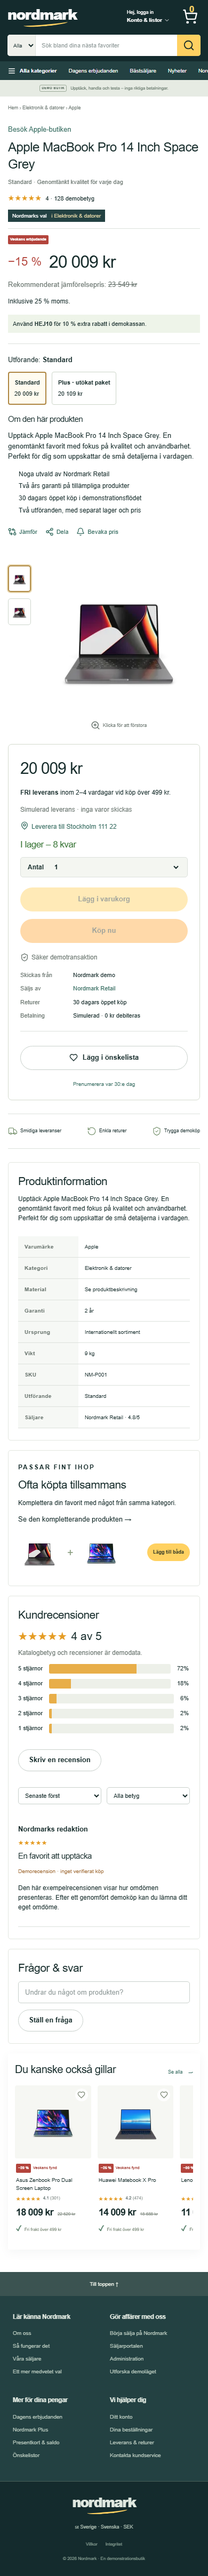
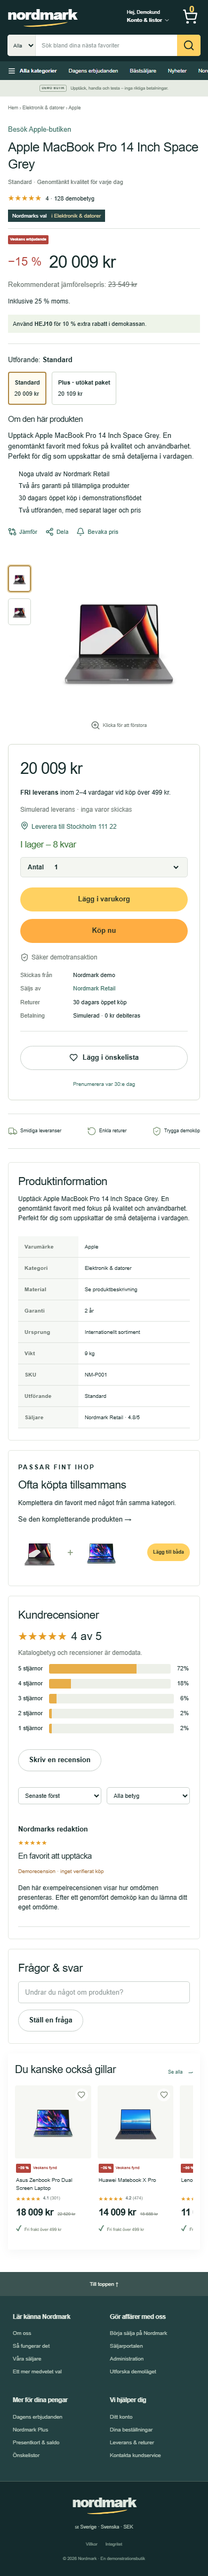
Verify live deployment and stabilize browser readiness checks

Changed region(s): [[0.0923, 0.3416, 0.8923, 0.3727]]

diff --git a/tests/e2e/commerce.spec.ts b/tests/e2e/commerce.spec.ts
@@ -232,9 +232,7 @@ for (const width of [390, 768, 1280, 1440])
     page.on('pageerror', (e) => errors.push(e.message));
     await page.goto('/');
     await expect(page.locator('.category-overlap')).toBeVisible();
-    await page
-      .waitForResponse((r) => r.url().endsWith('/api/shop') && r.status() === 200)
-      .catch(() => {});
+    await expect(page.locator('.account-link')).toContainText('Demokund');
     expect(
       await page.evaluate(() => document.documentElement.scrollWidth <= window.innerWidth),
     ).toBeTruthy();
@@ -242,6 +240,7 @@ for (const width of [390, 768, 1280, 1440])
     await page.screenshot({ path: `docs/screenshots/home-${width}.png`, fullPage: true });
     await page.goto('/produkt/p001');
     await expect(page.locator('.buy-box')).toBeVisible();
+    await expect(page.getByRole('button', { name: 'Lägg i varukorg', exact: true })).toBeEnabled();
     expect(
       await page.evaluate(() => document.documentElement.scrollWidth <= window.innerWidth),
     ).toBeTruthy();

diff --git a/docs/WORK-STATE.md b/docs/WORK-STATE.md
@@ -9,4 +9,6 @@ Amazon homepage blocked by JS challenge; search/cart HTTP503. Exact visual fidel
 
 Implemented complete demo customer purchase/return flow, scoped seller/admin panels, 120 local images, PostgreSQL seed/migrations, Better Auth merge/logout isolation, Stripe test adapters and verified webhook, SMTP/Blob adapters, CSV, wishlists, support and account extras. Scope limitations explicitly documented in README and docs/REQUIREMENTS.md. Source formatted with Prettier. Five unit tests and 16 Playwright/API tests passed before final settings/search enhancements; rerun final suite against production build. Lint/typecheck passed, npm audit zero vulnerabilities.
 
-GitHub empty repository created: https://github.com/VincentDimov/nordmark-marketplace . Git initialized main and files staged; commit/push still required. Vercel project nordmark-vincent created, linked, target verified prj_xvUkfknyNWjC8WZOHO6NBQU09xxf team_MR5SBZAu4rKslIcoHlmyD2o0. Six production/preview env vars configured securely via stdin script. Desired alias https://nordmark-vincent.vercel.app . No Stripe/SMTP/Blob external secrets configured. Need final tests/build, secret scan staged files, commit/push, vercel deploy --prod --skip-domain then smoke check and promote, connect GitHub, verify published flow. Local working port3016; do not stop unrelated port3000 processes.
+Published GitHub: https://github.com/VincentDimov/nordmark-marketplace (main). Vercel is LIVE: https://nordmark-vincent.vercel.app , READY deployment dpl_CqLBpCgRmABhfCsPbY6vEYnWGvb6 from app commit ce665ac. Project prj_xvUkfknyNWjC8WZOHO6NBQU09xxf in team_MR5SBZAu4rKslIcoHlmyD2o0. GitHub connected to Vercel. Six production/preview env vars configured securely via stdin script. No Stripe/SMTP/Blob external secrets configured. Deployed API smoke purchase, order readback, cancellation/refund passed. Local full suite15 plus portal test1 passed against production build; unit5, lint/typecheck/build all pass. Public browser smoke7 tests cover account, search, purchase and four widths. Secret scan clear. Scope limitations in README/REQUIREMENTS.
+
+Final follow-up commit contains test synchronization fix (wait for rendered session rather than possibly missed response), public verification docs and reusable smoke/status scripts. No application changes after tested ce665ac. Check final GitHub CI result; baseline first run may fail because of old test synchronization. Local port3016 is free after test runners stop; do not stop unrelated port3000 processes.

diff --git a/docs/VERIFICATION.md b/docs/VERIFICATION.md
@@ -22,3 +22,13 @@ Verifierat 6 november 2026 med Node.js 22.20.0 på Windows och Chromium via Play
 De 16 Playwright/API-testerna finns under `tests/e2e`. Webhooktestet använder Stripes egen signeringshjälpare och en disponibel testfixture i databasen; det är inte en faktisk extern Stripe-betalning. SMTP, extern Blob-lagring och riktiga betal-/fraktkonton har inte verifierats. Amazonrobotkontrollen hindrade exakt visuell referensjämförelse.
 
 Krav som inte är färdigställda redovisas i [REQUIREMENTS.md](REQUIREMENTS.md).
+
+## Driftsatt verifiering
+
+Vercel deployment `dpl_CqLBpCgRmABhfCsPbY6vEYnWGvb6` (kodcommit `ce665ac`) byggdes framgångsrikt och promoverades efter ett separat smoke-test till https://nordmark-vincent.vercel.app. Funktionerna kör i Frankfurt (`fra1`) nära databasen. GitHub är anslutet för kommande publiceringar.
+
+Smoke-test mot driftsatt API verifierade databasinitiering, sparad varukorg, lyckat demoköp med rabatt och presentkort, återläsning av order, avbeställning och demoåterbetalning. Efter publicering kördes också de sju webbläsartesterna för sökning/tomläge, komplett variant-/varukorgs-/köpflöde, kontoregistrering och responsiv layout i fyra bredder mot den publika adressen.
+
+En otillförlitlig testväntan på ett nätverkssvar ersattes med kontroll av faktiskt renderat sessionsinnehåll. Det undviker att ett redan avslutat snabbt API-svar missas i CI eller på den publicerade webbplatsen. Applikationskoden ändrades inte av den rättningen.
+
+Vercels första loggsökning efter driftsatt smoke-test returnerade inga felloggar. Separat extern felövervakning/drains är inte konfigurerad. GitHub Actions körs också på den pushade källkoden; dess slutstatus kan läsas via repots Actions-flik.
